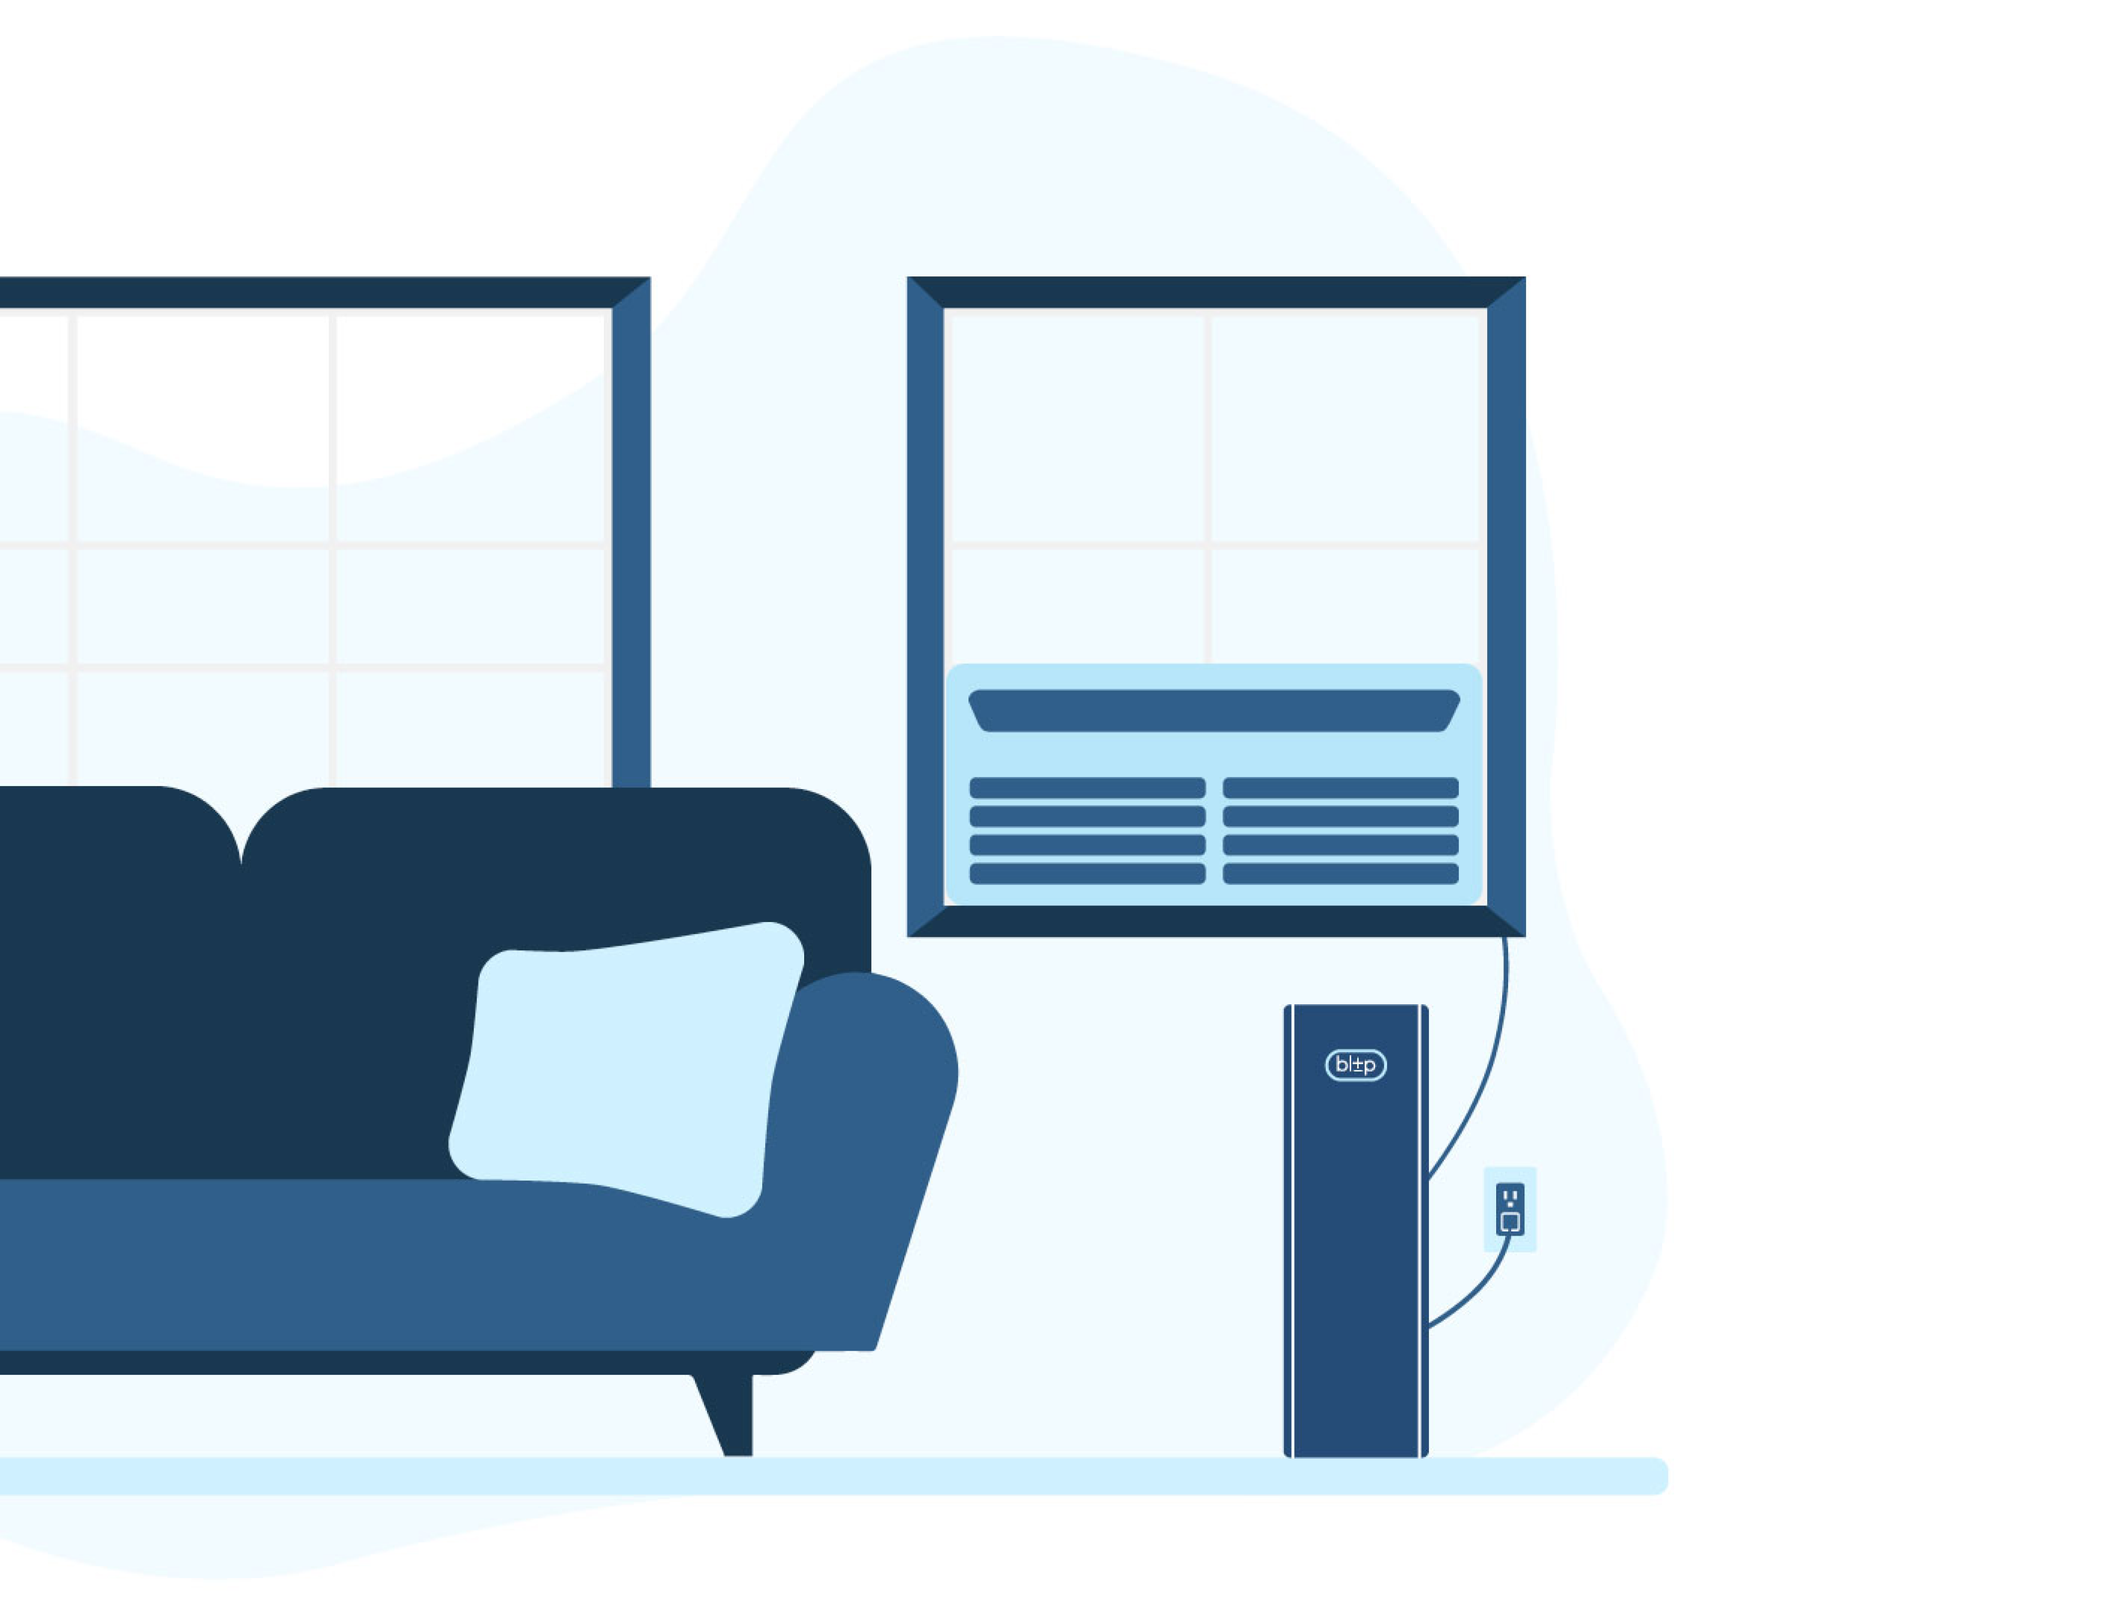
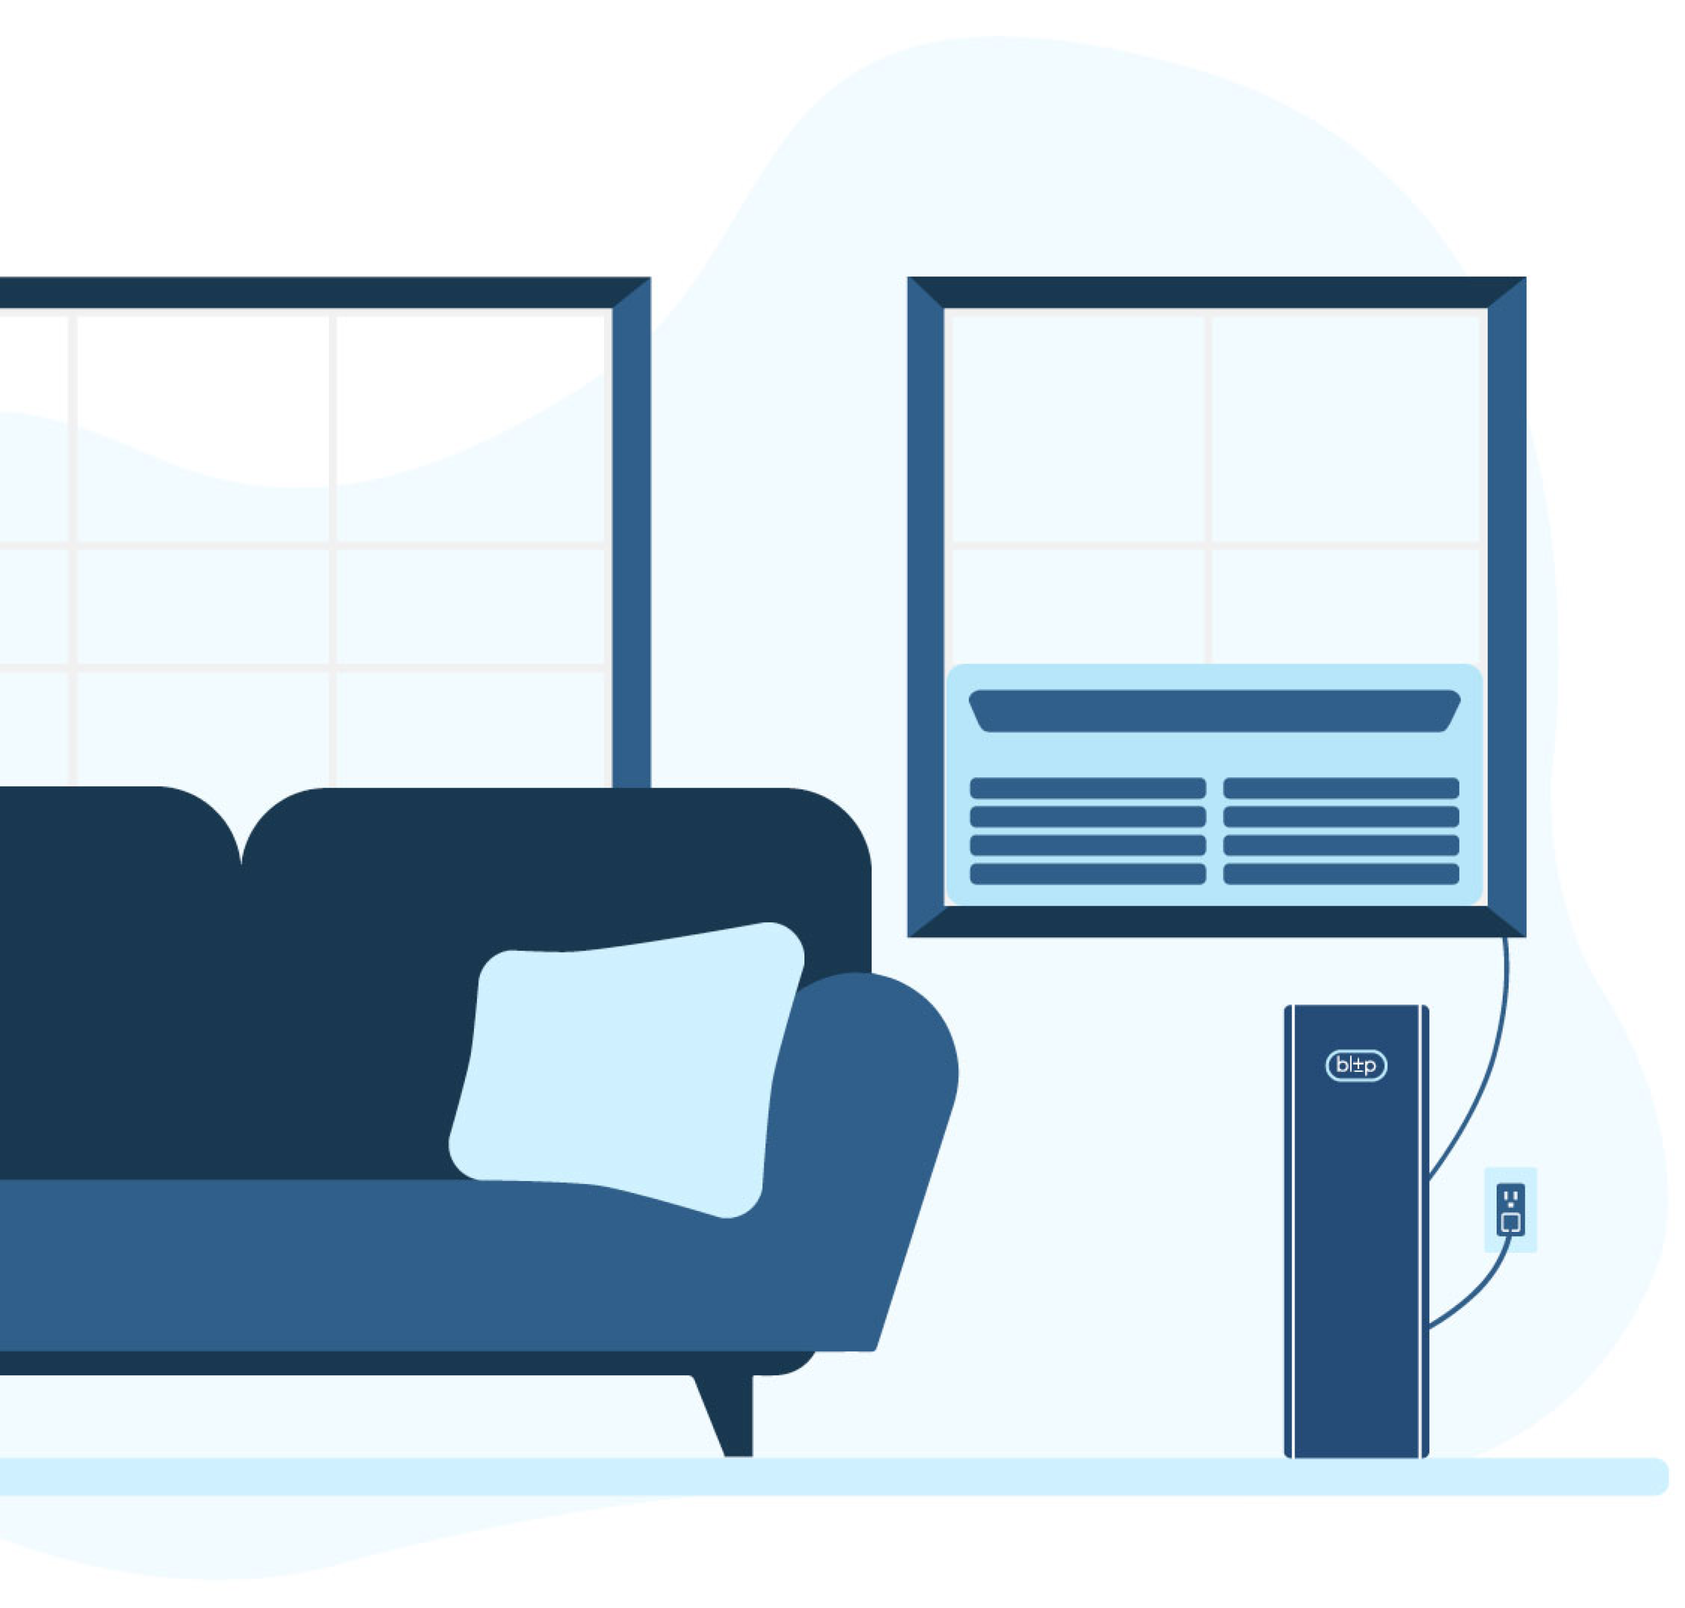
Updates on Jan 31st

Changed region(s): [[0.0, 0.1548, 0.9911, 0.9288], [0.0929, 0.4644, 0.1858, 0.5263]]

diff --git a/src/app/shared/components/homeII.vue b/src/app/shared/components/homeII.vue
@@ -34,12 +34,12 @@
       <!--end: Energy storage for anyone, anywhere-->
 
       <!--start: Pioneering a new era of energy storage-->
-      <section class="Pioneering b-FFFFFF i-a-c">
-        <b-row class="w-90p insider">
-          <b-col  xs="12" sm="12" md="7" lg="7" xl="7" class="leftImg p-l-0">
+      <section class="Pioneering b-FFFFFF i-a-c" v-if="ismOrpc === 'PCoperation'">
+        <b-row class="w-95p insider">
+          <b-col  xs="12" sm="12" md="12" lg="7" xl="7" class="leftImg p-l-0">
             <img src="../../../assets/webPages/Landing/Blip-environment-updated-nov2021.png" alt="" class="w-100p">
           </b-col>
-          <b-col  xs="12" sm="12" md="5" lg="5" xl="5" class="rightText t-left">
+          <b-col  xs="12" sm="12" md="12" lg="5" xl="5" class="rightText t-left">
             <p class="p1point5 c-4F9BC1" style="margin-bottom: 12px">A NEW KIND OF BATTERY</p>
             <h2 class="h2point8 c-254B77 f-weight-400 m-l-0 p-l-0" style="margin-bottom: 50px">Pioneering a new era of energy storage</h2>
             <p class="p3 c-183B56 m-l-0 p-l-0">
@@ -60,12 +60,38 @@
           </b-col>
         </b-row>
       </section>
+      <section class="Pioneering b-FFFFFF i-a-c" v-if="ismOrpc === 'Moperation'">
+        <b-row class="w-95p insider">
+          <b-col  xs="12" sm="12" md="12" lg="12" xl="5" class="leftText t-left">
+            <p class="p1point5 c-4F9BC1" style="margin-bottom: 12px">A NEW KIND OF BATTERY</p>
+            <h2 class="h2point8 c-254B77 f-weight-400 m-l-0 p-l-0" style="margin-bottom: 50px">Pioneering a new era of energy storage</h2>
+            <p class="p3 c-183B56 m-l-0 p-l-0">
+              Get reliable backup power and bill savings while fighting climate change and stabilizing the grid, all without turning off the air conditioning or lights.
+              <br><br>
+              blipOne is an affordable smart battery that makes it easier than ever for anyone to access energy storage, at a cost that can pay for itself in savings and without the hassle of professional installation.
+            </p>
+            <!--            <button type="button" class="btn submit transparent c-4F9BC1 t-right b-F9F9F9" onclick="window.location.href='../product'">-->
+            <!--              Learn More about blipOne <font-awesome-icon icon="arrow-right" style="font-size: 16px"/>-->
+            <!--            </button>-->
+            <!--            <img src="../../../assets/webPages/landing/arrow-right.png">-->
+            <!--            <router-link :to="{path: '/product'}" class="c-4F9BC1 routerLink">-->
+            <!--              Learn More about blipOne <font-awesome-icon icon="arrow-right" style="font-size: 16px; margin-bottom: -1px;"/>-->
+            <!--            </router-link>-->
+            <button type="button" class="btn submit" onclick="window.open('../product')">
+              Learn More about blipOne
+            </button>
+          </b-col>
+          <b-col  xs="12" sm="12" md="12" lg="12" xl="7" class="rightImg p-l-0">
+            <img src="../../../assets/webPages/Landing/Blip-environment-updated-nov2021.png" alt="" class="w-80p">
+          </b-col>
+        </b-row>
+      </section>
       <!--end: Pioneering a new era of energy storage-->
 
       <!--start: Stop paying for expensive electricity-->
       <section class="stopPaying b-EEF9FE i-a-c t-center">
-        <b-row class="w-90p insider t-center">
-          <b-col  xs="12" sm="12" md="5" lg="5" xl="5" class="leftText t-left">
+        <b-row class="w-80p insider t-center">
+          <b-col  xs="12" sm="12" md="12" lg="12" xl="5" class="leftText t-left">
             <p class="p1point5 c-4F9BC1" style="margin-bottom: 12px">SAVE, EFFORTLESSLY</p>
             <h2 class="h2point8 c-254B77 f-weight-400 m-l-0 p-l-0" style="margin-bottom: 50px">Stop paying surge rates for electricity</h2>
             <p class="p3 c-183B56 m-l-0 p-l-0">
@@ -77,7 +103,7 @@
               Savings Calculator
             </button>
           </b-col>
-          <b-col  xs="12" sm="12" md="7" lg="7" xl="7" class="rightImg p-l-0">
+          <b-col  xs="12" sm="12" md="12" lg="12" xl="7" class="rightImg p-l-0">
             <img src="../../../assets/webPages/Landing/Time-of-Use-Rate-Plans_v02.png" alt="" class="w-100p">
           </b-col>
         </b-row>
@@ -85,8 +111,8 @@
       <!--end: Stop paying for expensive electricity-->
 
       <!--start: Fight climate change from your couch-->
-      <section class="fightClimate b-254B77 i-a-c">
-        <b-row class="w-90p insider">
+      <section class="fightClimate b-254B77 i-a-c" v-if="ismOrpc === 'PCoperation'">
+        <b-row class="w-80p insider">
           <b-col  xs="12" sm="12" md="7" lg="7" xl="7" class="leftImg p-l-0">
             <img src="../../../assets/webPages/Landing/earth.png" alt="" class="w-90p">
           </b-col>
@@ -106,12 +132,33 @@
           </b-col>
         </b-row>
       </section>
+      <section class="fightClimate b-254B77 i-a-c" v-if="ismOrpc === 'Moperation'">
+        <b-row class="w-80p insider">
+          <b-col  xs="12" sm="12" md="12" lg="12" xl="5" class="rightText t-left">
+            <p class="p1point5 c-DEF5FF" style="margin-bottom: 12px">SUSTAINABILITY</p>
+            <h2 class="h2point8 c-FFFFFF f-weight-400 m-l-0 p-l-0" style="margin-bottom: 50px">Fight climate change from your couch</h2>
+            <p class="p3 c-FFFFFF m-l-0 p-l-0">
+              Imagine a world free from fuel-burning power plants. With creative solutions to volatile energy demand, it’s possible
+              <br><br>
+              Even with more renewable energy sources on the grid, we still need old school fuel-burning “peaker” power plants to meet demand when the sun isn’t shining or wind isn’t blowing, or during unexpected spikes
+              in demand.
+              <br><br>
+              Power grids are most strained when the sun goes down and people get home from work. By charging overnight and using that power during the daily peak times, blip reduces day-to-day reliance on peaker power plants.
+              <br><br>
+              It’s true, one blip won’t change the world, but a community full of blips can work to decommission a dirty power plant one home at a time. If we each do a little, we can all do a lot
+            </p>
+          </b-col>
+          <b-col  xs="12" sm="12" md="12" lg="12" xl="7" class="leftImg p-l-0">
+            <img src="../../../assets/webPages/Landing/earth.png" alt="" class="w-90p">
+          </b-col>
+        </b-row>
+      </section>
       <!--end: Fight climate change from your couch-->
 
       <!--start: Food for thought-->
       <section class="foodFor b-FFFFFF i-a-c">
-        <b-row class="w-90p insider">
-          <b-col  xs="12" sm="12" md="5" lg="5" xl="5" class="leftText t-left">
+        <b-row class="w-80p insider">
+          <b-col  xs="12" sm="12" md="12" lg="12" xl="5" class="leftText t-left">
             <p class="p1point5 c-4F9BC1" style="margin-bottom: 12px">BLOG</p>
             <h2 class="h2point8 c-254B77 f-weight-400 m-l-0 p-l-0" style="margin-bottom: 50px">Food for thought</h2>
             <p class="p3 c-183B56 m-l-0 p-l-0">
@@ -127,7 +174,7 @@
               blip Blog
             </button>
           </b-col>
-          <b-col  xs="12" sm="12" md="7" lg="7" xl="7" class="rightImg">
+          <b-col  xs="12" sm="12" md="12" lg="12" xl="7" class="rightImg">
             <img src="../../../assets/webPages/Landing/electrical-engineering_v02.png" alt="" class="w-100p">
           </b-col>
         </b-row>
@@ -158,7 +205,8 @@ export default {
   name: "home",
   data() {
     return {
-      formID: "email_signup_home"
+      formID: "email_signup_home",
+      ismOrpc: ''
     };
   },
   head() {

diff --git a/src/app/website/news.vue b/src/app/website/news.vue
@@ -9,6 +9,23 @@
 
           <b-row class="topline p-l-0 bottomline">
             <b-col xs="12" sm="12" md="4" lg="4" xl="3" class="leftImg t-left m-l-0 p-l-0 i-a-c">
+              <img src="../../assets/webPages/news/Green.png" alt="" style="width: 168.24px">
+            </b-col>
+            <b-col xs="12" sm="12" md="8" lg="8" xl="9" class="rightTxt t-left i-a-c">
+              <b-row>
+                <a href="https://magazine.northwestern.edu/innovation/invention-blip-energy-startup-blipone-affordable-portable-electricity/" target="_blank">
+                  <p class="p2 c-4F9BC1 t-left">Accelerating the Adoption of Renewable Resources</p>
+                  <p class="p3 c-4F9BC1 t-left" style="">Green.org - Jan 2022</p>
+                </a>
+                <p class="p3 c-254B77 t-left w-100p">
+                  "Our goal is organic growth on a residential level will be recognized and eventually championed by institutional distributors such as utilities. This trajectory of exponential growth will inspire goverment incentivize programs that promote residential energy storage systems..."
+                </p>
+              </b-row>
+            </b-col>
+          </b-row>
+
+          <b-row class="topline p-l-0">
+            <b-col xs="12" sm="12" md="4" lg="4" xl="3" class="leftImg t-left m-l-0 p-l-0 i-a-c">
               <img src="../../assets/webPages/news/northwestern.png" alt="" style="width: 99px">
             </b-col>
             <b-col xs="12" sm="12" md="8" lg="8" xl="9" class="rightTxt t-left i-a-c">
@@ -17,7 +34,9 @@
                   <p class="p2 c-4F9BC1 t-left">Blip Energy Makes Power More Affordable </p>
                   <p class="p3 c-4F9BC1 t-left" style="">Northwestern Magazine - Fall 2021</p>
                 </a>
-                <p class="p3 c-254B77 t-left w-100p">The blipOne device allows users to store electricity when it is cheap and discharge power when it is expensive.</p>
+                <p class="p3 c-254B77 t-left w-100p">
+                  "Blip energy CEO Sophia Wennstedt and her Northwestern team created blipOne after launching their startup through the Farley Center for Entrepreneurship and Innovation’s NUvention: Energy course."
+                </p>
               </b-row>
             </b-col>
           </b-row>
@@ -32,7 +51,9 @@
                   <p class="p2 c-4F9BC1 t-left">Home Batteries for Renters</p>
                   <p class="p3 c-4F9BC1 t-left" style="">EnergySage - Dec 2021</p>
                 </a>
-                <p class="p3 c-254B77 t-left w-100p">"Whether you’re looking to lower your electricity usage during peak electricity hours or have a backup power supply in the case of an outage, home batteries..."</p>
+                <p class="p3 c-254B77 t-left w-100p">
+                  "Most energy storage systems require installation and electrical wiring, making it difficult for people who rent or own a condo to take advantage of these benefits. Some companies have recently acknowledged this gap, launching plug-in battery solutions that don’t require installation by an electrician – this is making home batteries more accessible to everyone, regardless of whether you have access to your main electrical panel."
+                </p>
               </b-row>
             </b-col>
           </b-row>
@@ -47,7 +68,9 @@
                   <p class="p2 c-4F9BC1 t-left">Finding Sustainable Energy Solutions</p>
                   <p class="p3 c-4F9BC1 t-left" style="">UNC Kenan-Flagler - Dec 2021</p>
                 </a>
-                <p class="p3 c-254B77 t-left w-100p">Profile of Chance Cobb with information about how blip works as a company.</p>
+                <p class="p3 c-254B77 t-left w-100p">
+                  "[blip] is designed for an underserved market: renters, apartment owners and multi-unit buildings – those who don’t have access to their breaker boxes. Customers will save money and reduce demand on the grid by running devices off the battery power during peak hours when energy prices are high."
+                </p>
               </b-row>
             </b-col>
           </b-row>
@@ -62,7 +85,9 @@
                   <p class="p2 c-4F9BC1 t-left">Garage Gift Guide</p>
                   <p class="p3 c-4F9BC1 t-left" style="">The Garage - Fall 2021</p>
                 </a>
-                <p class="p3 c-254B77 t-left w-100p">Northwestern’s Garage featured blip in their 2021 gift guide. </p>
+                <p class="p3 c-254B77 t-left w-100p">
+                  "Co-founded by Sophia Wennstedt ’22, blip energy (a semifinalist in VentureCat 2021) just launched their first product. blipOne is a smart, reliable, at-home battery that stores power when it’s cheapest and lets users access emergency power whenever they need it."
+                </p>
               </b-row>
             </b-col>
           </b-row>

diff --git a/src/scss/pages/_homeII.scss b/src/scss/pages/_homeII.scss
@@ -101,11 +101,11 @@
     //align-items: center;
     margin-left: 0;
     .leftImg{
+      padding-right: 3%;
       display: flex;
       align-items: center;
-
       img{
-        width: 120%;
+        width: 100%;
       }
 
       //.crop{
@@ -117,7 +117,7 @@
       //}
     }
     .rightText{
-      padding-left: 80px;
+      padding-left: 3%;
       padding-top: 55px;
       padding-bottom: 55px;
       .p2{margin-left: 0px}
@@ -142,6 +142,41 @@
       }
       .routerLink:hover{color: #254B77;text-decoration: none;}
     }
+    .leftText{
+      padding-left: 10%;
+      padding-right: 5%;
+      padding-top: 55px;
+      padding-bottom: 55px;
+      .p2{margin-left: 0px}
+      button{
+        //position: absolute;
+        //right: 0;
+        height: 48px;
+        padding-left: 58px;
+        padding-right: 58px;
+        margin-top: 30px;
+      }
+      .routerLink{
+        position: absolute;
+        right: 0;
+        margin-top: 40px;
+        font-weight: 400;
+
+        img{
+          width: 24px;
+          margin-top: -3px;
+        }
+      }
+      .routerLink:hover{color: #254B77;text-decoration: none;}
+    }
+    .rightImg{
+      padding-right: 3%;
+      display: flex;
+      align-items: center;
+      img{
+        width: 80%;
+      }
+    }
   }
 
 }
@@ -149,7 +184,7 @@
 .stopPaying{
   //height: 820px;
   padding-top: 110px;
-  padding-bottom: 100px;
+  padding-bottom: 110px;
   //display: flex;
   //align-items: center;
   .insider{
@@ -163,6 +198,7 @@
         font-weight: 400;
       }
     }
+    .rightImg{margin-bottom: 100px}
   }
 }
 

diff --git a/src/app/website/utilitiesII.vue b/src/app/website/utilitiesII.vue
@@ -12,7 +12,7 @@
             <p class="p3 c-183B56 m-l-0 p-l-0">
               At blip energy, we're on a mission to make energy storage accessible to everyone. At scale, this distributed resource will reduce the need for expensive (and dirty) peaker plant generation and accelerate the transition to renewable energy by flattening demand.
               <br><br>
-              With the Orison platform, utilities can make the shift to a flexible, data-driven electric grid and reach all energy consumers, including high-density housing, renters, and apartment dwellers where solar is not a prerequisite. This can be achieved in an orderly and scalable fashion without the need to replace or rebuild the current grid infrastructure.
+              With the blipOne platform, utilities can make the shift to a flexible, data-driven electric grid and reach all energy consumers, including high-density housing, renters, and apartment dwellers where solar is not a prerequisite. This can be achieved in an orderly and scalable fashion without the need to replace or rebuild the current grid infrastructure.
             </p>
           </b-col>
           <b-col  xs="12" sm="12" md="7" lg="7" xl="7" class="rightImg">

diff --git a/src/scss/pages/common.scss b/src/scss/pages/common.scss
@@ -190,6 +190,7 @@ a{
 
 .width-100percent{width: 100%;}
 .w-100p{width: 100%;}
+.w-95p{width: 95%;}
 .w-90p{width: 90%;}
 .w-85p{width: 85%;}
 .w-80p{width: 80%;}
